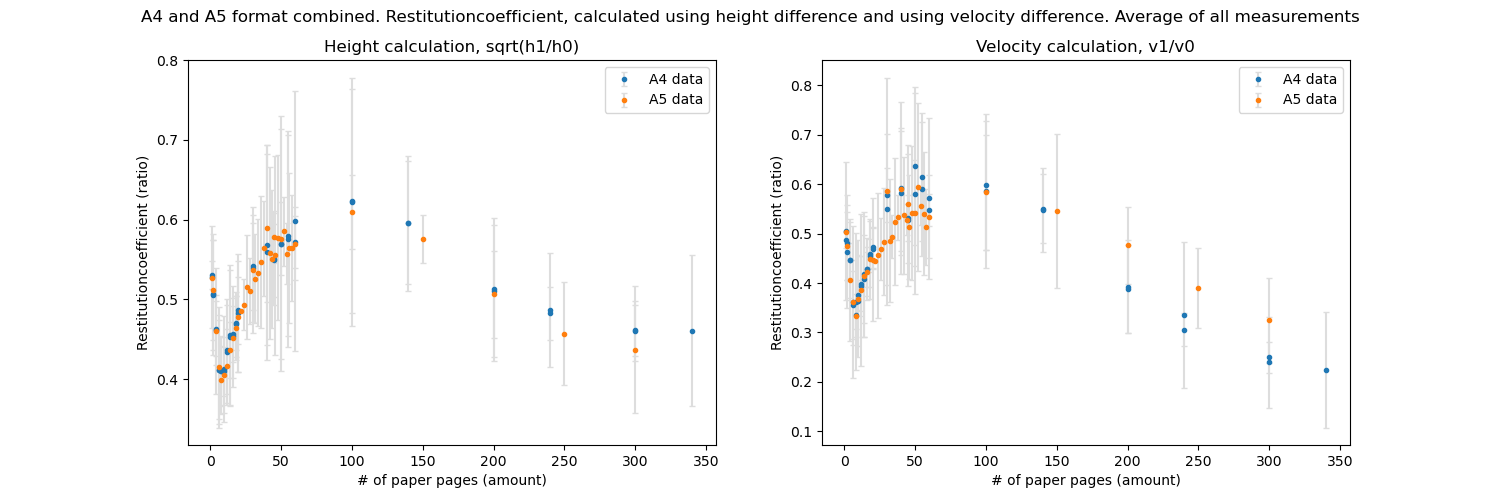
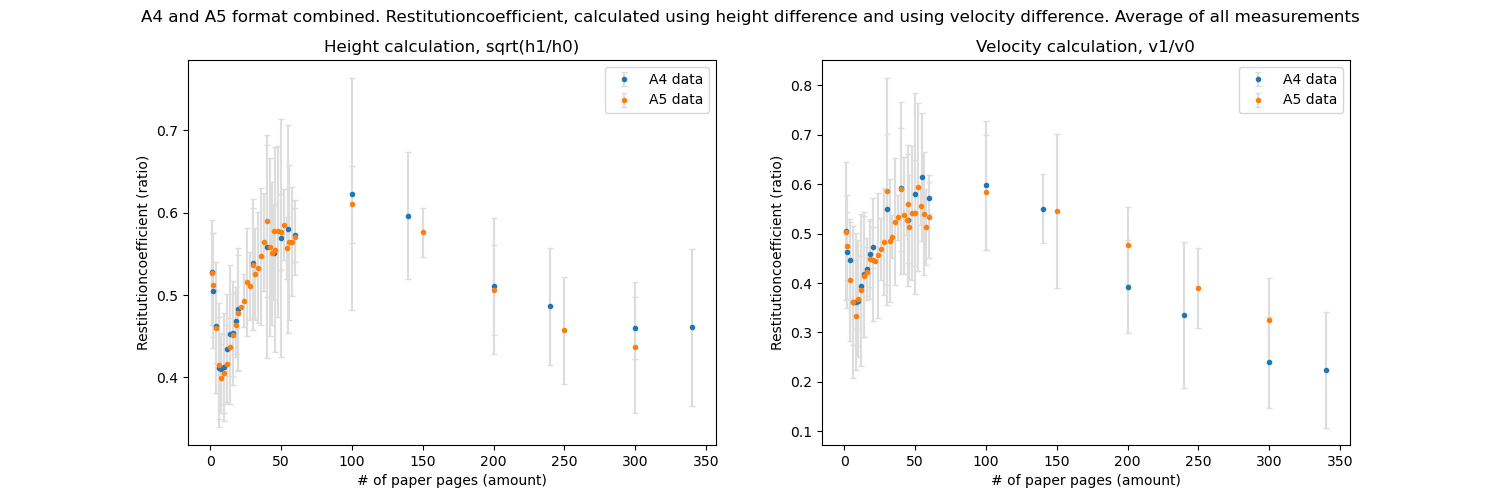
Separated and added graphs for clarity, fixed error of double appending, final final final final final graphs

diff --git a/Code/AVG_SIGMA_PLOTTER.py b/Code/AVG_SIGMA_PLOTTER.py
@@ -56,20 +56,22 @@ with A4_CSV as A4:
             if A4_papier_lijst[papier - 2] == A4_papier_lijst[papier - 1 ] == A4_papier_lijst[papier]:
                 print('papier', papier, A4_papier_lijst[papier], A4_papier_lijst[papier - 1])
             else:
-                print(papier, A4_papier_lijst[papier], A4_papier_lijst[papier + 1])
-                A4_compressed_papier_lijst.append(A4_papier_lijst[papier])
-                A4_temp_h_list = [A4_coefficienten_1_h_lijst[papier], A4_coefficienten_1_h_lijst[papier + 1]]
-                A4_fout_temp_h_list = [A4_fout_coefficienten_1_h_lijst[papier], A4_fout_coefficienten_1_h_lijst[papier + 1]]
-                A4_avg_h_lijst.append(float(np.mean(A4_temp_h_list)))
-                A4_fout_h_lijst.append(float(np.sqrt(np.std(A4_temp_h_list) + np.var(A4_fout_temp_h_list))))
-                A4_temp_v_list = [A4_coefficienten_1_v_lijst[papier]]
-                A4_fout_temp_v_list = [A4_fout_coefficienten_1_v_lijst[papier]]
-                A4_avg_v_lijst.append(float(np.mean(A4_temp_v_list)))
-                A4_fout_v_lijst.append(float(np.sqrt(np.std(A4_temp_h_list) + np.var(A4_fout_temp_v_list))))
-        
+                if A4_papier_lijst[papier - 2] != A4_papier_lijst[papier - 1 ] and A4_papier_lijst[papier] != A4_papier_lijst[papier + 1]:  
+                    print(papier, A4_papier_lijst[papier], A4_papier_lijst[papier + 1])
+                    A4_compressed_papier_lijst.append(A4_papier_lijst[papier])
+                    A4_temp_h_list = [A4_coefficienten_1_h_lijst[papier], A4_coefficienten_1_h_lijst[papier - 1]]
+                    A4_fout_temp_h_list = [A4_fout_coefficienten_1_h_lijst[papier], A4_fout_coefficienten_1_h_lijst[papier - 1]]
+                    A4_avg_h_lijst.append(float(np.mean(A4_temp_h_list)))
+                    A4_fout_h_lijst.append(float(np.sqrt(np.std(A4_temp_h_list) + np.var(A4_fout_temp_h_list))))
+                    A4_temp_v_list = [A4_coefficienten_1_v_lijst[papier]]
+                    A4_fout_temp_v_list = [A4_fout_coefficienten_1_v_lijst[papier]]
+                    A4_avg_v_lijst.append(float(np.mean(A4_temp_v_list)))
+                    A4_fout_v_lijst.append(float(np.sqrt(np.std(A4_temp_h_list) + np.var(A4_fout_temp_v_list))))
+    
 
     A4_CSV.close()
 
+print(A4_compressed_papier_lijst)
 
 with A5_B_CSV as A5_B:
     A5_papier_lijst = []
@@ -166,16 +168,16 @@ with A5_O_CSV as A5_O:
 print(len(A5_compressed_papier_lijst))
 print(len(A5_avg_h_B_lijst))
 
-plt.figure(1, figsize=(15, 5))
-plt.suptitle('A4 and A5 format combined. Restitutioncoefficient, calculated using height difference and using velocity difference. Average of all measurements')
-plt.subplot(121)
+plt.figure(1, figsize=(10, 10))
 plt.title('Height calculation, sqrt(h1/h0)')
 plt.errorbar(A4_compressed_papier_lijst, A4_avg_h_lijst, yerr=A4_fout_h_lijst, capsize=2, fmt='o', ecolor = "#dddddd", label='A4 data', markersize='3')
 plt.errorbar(A5_compressed_papier_lijst, A5_avg_h_B_lijst, yerr=A5_fout_h_B_lijst, capsize=2, fmt='o', ecolor = "#dddddd", label='A5 data', markersize='3')
 plt.xlabel('# of paper pages (amount)')
 plt.ylabel('Restitutioncoefficient (ratio)')
 plt.legend()
-plt.subplot(122)
+plt.savefig('A4_AND_A5_COR_H_AVG_SIGMA')
+
+plt.figure(2, figsize=(10, 10))
 plt.title('Velocity calculation, v1/v0')
 plt.errorbar(A4_compressed_papier_lijst, A4_avg_v_lijst, yerr=A4_fout_v_lijst, capsize=2, fmt='o', ecolor = "#dddddd", label='A4 data', markersize='3')
 plt.errorbar(A5_compressed_papier_lijst, A5_avg_v_B_lijst, yerr=A5_fout_v_B_lijst, capsize=2, fmt='o', ecolor = "#dddddd", label='A5 data', markersize='3')
@@ -183,28 +185,62 @@ plt.xlabel('# of paper pages (amount)')
 plt.ylabel('Restitutioncoefficient (ratio)')
 # plt.ylim(0.1, 0.8)
 plt.legend()
-plt.savefig('A4_AND_A5_COR_AVG_SIGMA')
+plt.savefig('A4_AND_A5_COR_V_AVG_SIGMA')
 
+plt.figure(3, figsize=(10, 10))
+plt.title('Height calculation, sqrt(h1/h0)')
+plt.errorbar(A5_compressed_papier_lijst, A5_avg_h_B_lijst, yerr=A5_fout_h_B_lijst, capsize=2, fmt='o', ecolor = "#dddddd", label='A5', markersize='3', color='darkorange')
+plt.xlabel('# of paper pages (amount)')
+plt.ylabel('Restitutioncoefficient (ratio)')
+plt.legend()
+plt.savefig('A5_COR_H_HIGH_AVG_SIGMA')
 
-plt.figure(2, figsize=(20, 10))
-plt.suptitle('A5 format, dropped from half the height of original measurements. Restitutioncoefficient, calculated using height difference and using velocity difference. Average of all measurements')
-plt.subplot(221)
+plt.figure(4, figsize=(10, 10))
+plt.title('Velocity calculation, v1/v0')
+plt.errorbar(A5_compressed_papier_lijst, A5_avg_v_B_lijst, yerr=A5_fout_v_B_lijst, capsize=2, fmt='o', ecolor = "#dddddd", label='A5', markersize='3', color='darkorange')
+plt.xlabel('# of paper pages (amount)')
+plt.ylabel('Restitutioncoefficient (ratio)')
+# plt.ylim(0.4, 0.7)
+plt.legend()
+plt.savefig('A5_COR_V_HIGH_AVG_SIGMA')
+
+plt.figure(5, figsize=(10, 10))
 plt.title('Height calculation, sqrt(h1/h0)')
 plt.errorbar(A5_compressed_papier_lijst, A5_avg_h_O_lijst, yerr=A5_fout_h_O_lijst, capsize=2, fmt='o', ecolor = "#dddddd", label='A5', markersize='3', color='darkorange')
 plt.xlabel('# of paper pages (amount)')
 plt.ylabel('Restitutioncoefficient (ratio)')
 plt.legend()
-plt.subplot(222)
+plt.savefig('A5_COR_H_LOW_AVG_SIGMA')
+
+plt.figure(6, figsize=(10, 10))
 plt.title('Velocity calculation, v1/v0')
 plt.errorbar(A5_compressed_papier_lijst, A5_avg_v_O_lijst, yerr=A5_fout_v_O_lijst, capsize=2, fmt='o', ecolor = "#dddddd", label='A5', markersize='3', color='darkorange')
 plt.xlabel('# of paper pages (amount)')
 plt.ylabel('Restitutioncoefficient (ratio)')
 # plt.ylim(0.4, 0.7)
 plt.legend()
-plt.savefig('A5_COR_LOW_AVG_SIGMA')
+plt.savefig('A5_COR_V_LOW_AVG_SIGMA')
 
 
-# plt.figure(3, figsize=(15, 5))
+plt.figure(7, figsize=(10, 10))
+plt.title('Height calculation, sqrt(h1/h0)')
+plt.errorbar(A4_compressed_papier_lijst, A4_avg_h_lijst, yerr=A4_fout_h_lijst, capsize=2, fmt='o', ecolor = "#dddddd", label='A4 data', markersize='3')
+plt.xlabel('# of paper pages (amount)')
+plt.ylabel('Restitutioncoefficient (ratio)')
+plt.legend()
+plt.savefig('A4_COR_H_AVG_SIGMA')
+
+plt.figure(8, figsize=(10, 10))
+plt.title('Velocity calculation, v1/v0')
+plt.errorbar(A4_compressed_papier_lijst, A4_avg_v_lijst, yerr=A4_fout_v_lijst, capsize=2, fmt='o', ecolor = "#dddddd", label='A4 data', markersize='3')
+plt.xlabel('# of paper pages (amount)')
+plt.ylabel('Restitutioncoefficient (ratio)')
+# plt.ylim(0.1, 0.8)
+plt.legend()
+plt.savefig('A4_COR_V_AVG_SIGMA')
+
+
+# plt.figure(3, figsize=(10, 10))
 # plt.subplot(321)
 # # plt.plot(A4_compressed_papier_lijst, A4_avg_h_lijst, 'o')
 # plt.plot(A4_papier_lijst, A4_coefficienten_1_h_lijst, 'o')
@@ -214,7 +250,7 @@ plt.savefig('A5_COR_LOW_AVG_SIGMA')
 # # plt.plot(A4_compressed_papier_lijst, A4_avg_v_lijst, 'o')
 # plt.plot(A4_papier_lijst, A4_coefficienten_1_v_lijst, 'o')
 
-# plt.figure(4, figsize=(15, 5))
+# plt.figure(4, figsize=(10, 10))
 # plt.subplot(421)
 # # plt.errorbar(A5_papier_lijst, A5_coefficienten_1_h_B_lijst, yerr=A5_fout_coefficienten_1_h_B_lijst, capsize=3, fmt='o', ecolor = "#dddddd", label='A5', markersize='5', color='darkorange')
 # plt.plot(A5_papier_lijst, A5_coefficienten_1_h_B_lijst, 'o')
@@ -222,7 +258,7 @@ plt.savefig('A5_COR_LOW_AVG_SIGMA')
 # # plt.errorbar(A5_papier_lijst, A5_coefficienten_1_v_B_lijst, yerr=A5_fout_coefficienten_1_v_B_lijst, capsize=3, fmt='o', ecolor = "#dddddd", label='A5', markersize='5', color='darkorange')
 # plt.plot(A5_papier_lijst, A5_coefficienten_1_v_B_lijst, 'o')
 
-# plt.figure(5, figsize=(15, 5))
+# plt.figure(5, figsize=(10, 10))
 # plt.subplot(521)
 # # plt.plot(A5_papier_lijst, A5_coefficienten_1_h_O_lijst, 'o')
 # # plt.errorbar(A5_papier_lijst, A5_coefficienten_1_h_O_lijst, yerr=A5_fout_coefficienten_1_h_O_lijst, capsize=3, fmt='o', ecolor = "#dddddd", label='A5', markersize='5', color='darkorange')
